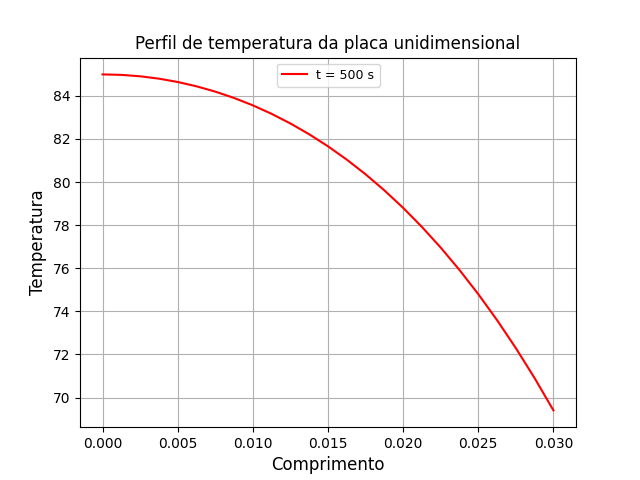
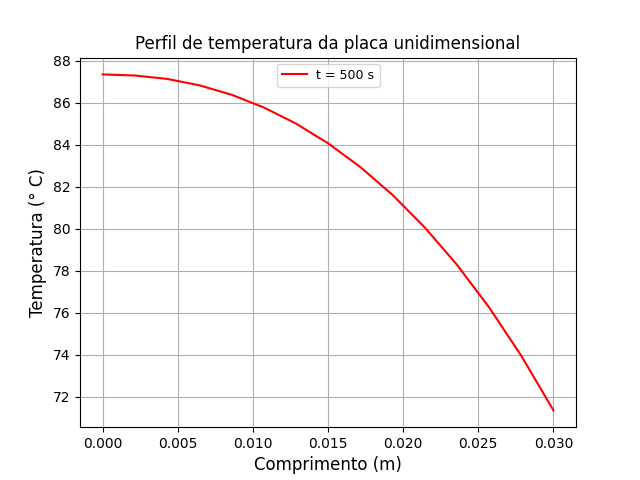
Implementação da solução pelo método Crank-Nicolson

diff --git a/Trabalho 1/trab1.py b/Trabalho 1/trab1.py
@@ -5,10 +5,10 @@ import matplotlib.animation as ani
 
 # Variáveis do domínio da simulação:
 L = 0.03                  # comprimento total da placa
-N  = 25                   # número de nós da malha
+N  = 15                   # número de nós da malha
 ti = 0.0                  # tempo inicial da simulação
 tf = 500.0                # tempo final da simulação
-dx = L / (N - 1)          # comprimento do intervalo
+dx = L/(N-1)              # comprimento do intervalo
 dt = 0.5                  # passo de tempo
 nsteps = int((tf-ti)/dt)  # número de passos de tempo
 
@@ -23,27 +23,43 @@ TL = 20.0
 alpha = kappa/(rho*cp)
 r1 = (alpha*dt)/(dx*dx)         # coeficiente r do método implícito
 r2 = (alpha*dt)/(2*dx*dx)       # coeficiente r do Crank-Nicolson
-gamma = 3.0 + ((2*h*dx)/kappa)
-llambda = (g*dt)/(rho*cp)
+eta = 3.0 + ((2*h*dx)/kappa)
+mu = (g*dt)/(rho*cp)
 
 
 def plotfxy(eixo_x, eixo_y):
     plt.plot(eixo_x, eixo_y, "r", label= 't = 500 s')
     plt.title("Perfil de temperatura da placa unidimensional")
-    plt.xlabel("Comprimento", fontsize = 12)
-    plt.ylabel("Temperatura", fontsize = 12)
+    plt.xlabel("Comprimento (m)", fontsize = 12)
+    plt.ylabel("Temperatura (° C)", fontsize = 12)
     plt.legend(loc='upper center', fontsize=9)
     plt.grid(True, 'major', 'both')
     plt.savefig('Grafico1.png')
-    #plt.show()
+    plt.show()
+def init():
+    line.set_data([], [])
+    time_text.set_text('t = 0.0 s')
+    return line, time_text
+def animate(i):
+    x = X
+    y = T[i, :]
+    ymin=np.min(y)
+    ymax=np.max(y)
+    time_text.set_text('t = % .1f s' % ts[i])
+    ax.set_ylim(ymin, ymax)
+    line.set_data(x, y)
+    return line, time_text
 
+
+
+# Animaç
 
 T = np.zeros((nsteps, N))   # Array para temperaturas, com N elementos por linha em nsteps linhas
 T2 = np.zeros((nsteps, N))  # Copia para o Cranck Nicolson
 X = np.linspace(0.0, L, N)  # Vetor das posições linearmente espaçado
 
 # Solver implícito:
-def implictsolver(A, B):
+def implictsolver(A, B, T):
     T[0] = B.reshape(1, N)
     t = 1
     while t < nsteps:
@@ -51,7 +67,7 @@ def implictsolver(A, B):
         B[N-1][0] = (2*h*dx*T0)/kappa
         i = 1
         while i < N-1 :
-            B[i][0] = B[i][0] + llambda
+            B[i][0] = B[i][0] + mu
             i = i + 1
         B = np.linalg.solve(A, B)
         T[t] = B.reshape(1, N)
@@ -68,7 +84,7 @@ def solveimplicitly(r):
     A[0][2] = -1.0
     A[N-1][N-3] = 1.0
     A[N-1][N-2] = -4.0
-    A[N-1][N-1] = gamma
+    A[N-1][N-1] = eta
     i = 1
     j = 0
     while i < N-1 :
@@ -77,43 +93,78 @@ def solveimplicitly(r):
         A[i][j+2] = -r
         j = j+1
         i = i+1
-
-    implictsolver(A, B)
+    implictsolver(A, B, T)
     plotfxy(X, T[nsteps-1])
 
 
+# Crank-Nicolson:
+def nicolsonsolver(A, B, T, r):
+    T[0] = B.reshape(1, N)
+    t = 1
+    while t < nsteps:
+        i = 1
+        # Corrigimos os Bs internos primeiro:
+        while i < N-1 :
+            B[i][0] = r*B[i-1][0] + (1-2*r)*B[i][0] + r*B[i+1][0] + mu
+            i = i + 1
+        # Corrigimos os Bs do contorno:  
+        B[0][0] = 0.0
+        B[N-1][0] = (2*h*dx*T0)/kappa  
+        B = np.linalg.solve(A, B)
+        T[t] = B.reshape(1, N)
+        t = t + 1
 
-solveimplicitly(r1)
+def solvebyNicolson(r, T):
+    # Preenchimento da matriz de termos independentes:
+    B = np.full((N, 1), T0)
 
+    # Preenchimento da matriz de coeficientes:
+    A = np.zeros((N,N))
+    A[0][0] = -3.0
+    A[0][1] = 4.0
+    A[0][2] = -1.0
+    A[N-1][N-3] = 1.0
+    A[N-1][N-2] = -4.0
+    A[N-1][N-1] = eta
+    i = 1
+    j = 0
+    while i < N-1 :
+        A[i][j] = -r
+        A[i][j+1] = 1 + 2*r
+        A[i][j+2] = -r
+        j = j+1
+        i = i+1
+    nicolsonsolver(A, B, T, r)
+    plotfxy(X, T[nsteps-1])
+ 
+
+
+# solveimplicitly(r1, T)
+# print("T[x=0] =", T1[nsteps-1][0])
+# print("T[x=0.03] =", T1[nsteps-1][N-1])
+
+solvebyNicolson(r2, T2)
+print("T[x=0] =", T2[nsteps-1][0])
+print("T[x=0.03] =", T2[nsteps-1][N-1])
 
 # Animação :
-x_ax = X
-y_ax = T[0, :]
-ts = np.linspace(0, tf, nsteps)
+# x_ax = X
+# y_ax = T[0, :]
+# ts = np.linspace(0, tf, nsteps)
 
-fig = plt.figure()
-plt.title("Perfil de temperatura da placa unidimensional")
-plt.xlabel("Comprimento", fontsize = 11)
-plt.ylabel("Temperatura", fontsize = 11)
-ax = plt.axes(xlim = (np.min(x_ax), np.max(x_ax)), ylim=(0, 21))
-line, = ax.plot([], [], lw=2)
-time_text = ax.text(0.1, 1.0, '', transform=ax.transAxes)
+# fig = plt.figure()
+# plt.title("Perfil de temperatura da placa unidimensional")
+# plt.xlabel("Comprimento", fontsize = 10)
+# plt.ylabel("Temperatura", fontsize = 10)
+# ax = plt.axes(xlim = (0.0, L), ylim=(0, 21), autoscale_on=False)
+# line, = ax.plot([], [], lw=2,)
+# time_text = ax.text(0.9, 0.9, 'tempo', transform=ax.transAxes)
 
-def init():
-    line.set_data([], [])
-    time_text.set_text('')
-    return line, time_text
+# anim = ani.FuncAnimation(fig, animate, init_func=init, frames=nsteps,interval=1, blit=False)
+# anim.save('temperatura.gif')
+# plt.show()
 
-def animate(i):
-    x = X
-    y = T[i, :]
-    ymin=np.min(y)
-    ymax=np.max(y)
-    time_text.set_text('t = % .01f s' % ts[i])
-    ax.set_ylim(ymin, ymax)
-    line.set_data(x, y)
-    return line, time_text
 
-anim = ani.FuncAnimation(fig, animate, init_func=init, frames=nsteps,interval=1, blit=False)
-anim.save('temperatura.gif')
-plt.show()
+
+
+
